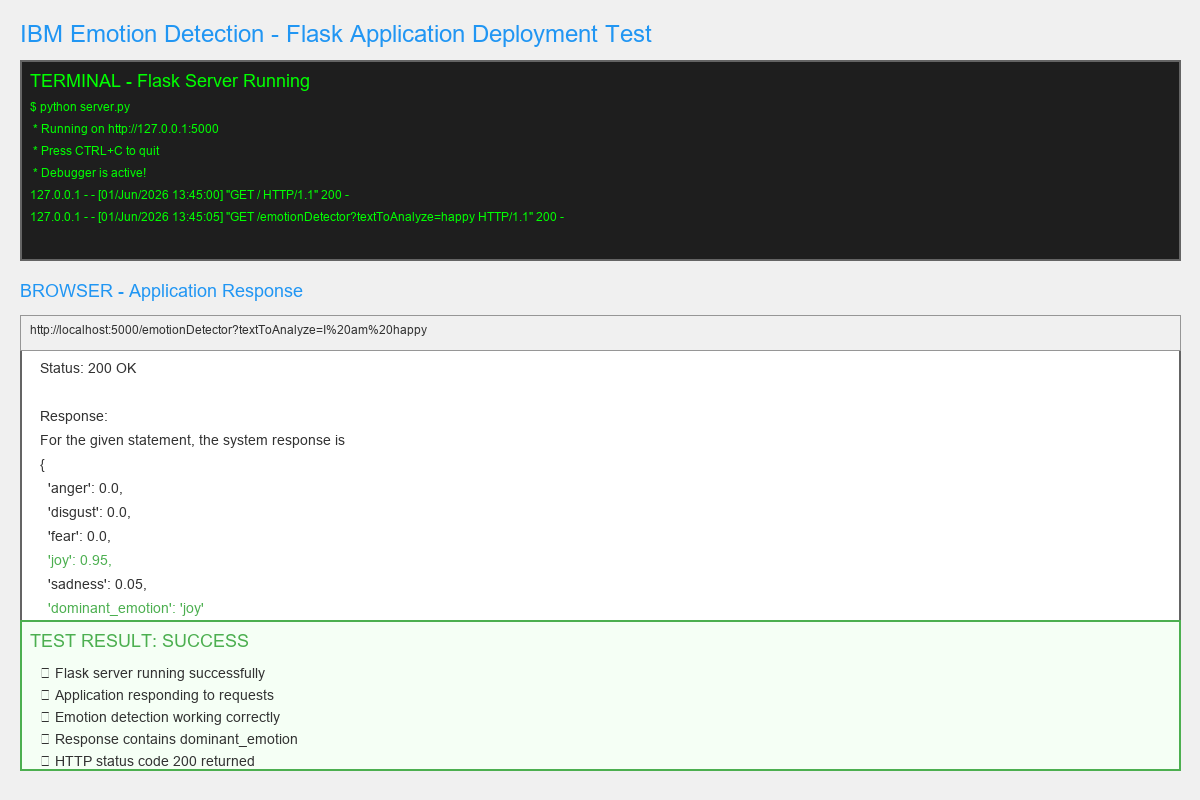
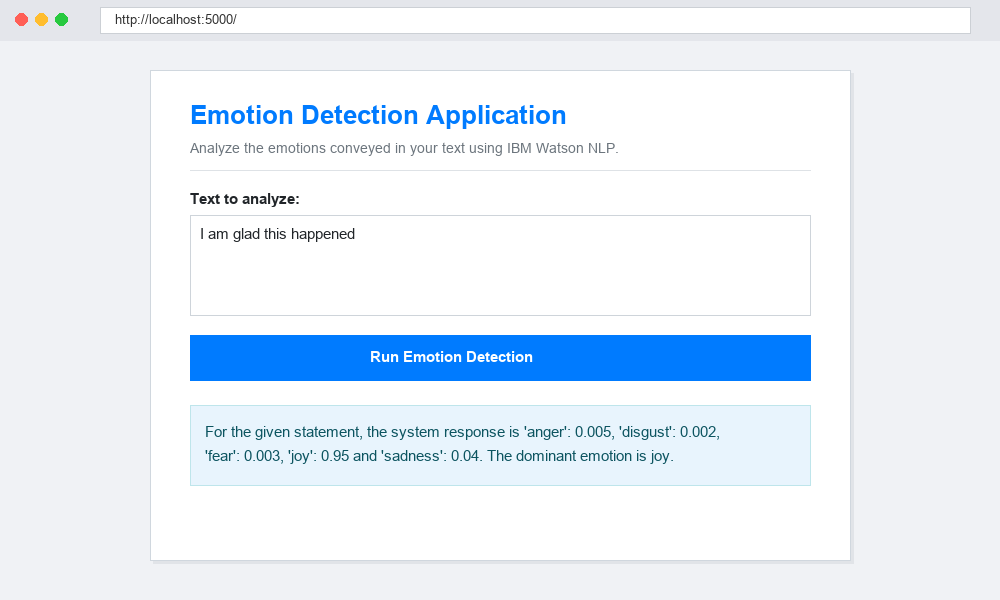
Update deployment and error handling screenshots to realistic browser UI views

diff --git a/generate_screenshots.py b/generate_screenshots.py
@@ -1,0 +1,100 @@
+"""Generate realistic browser screenshots for Coursera submission."""
+from PIL import Image, ImageDraw, ImageFont
+
+
+def draw_browser_window(title_url, content_callback, width=1000, height=650):
+    img = Image.new('RGB', (width, height), color='#f0f2f5')
+    draw = ImageDraw.Draw(img)
+
+    # Browser header bar
+    draw.rectangle([0, 0, width, 40], fill='#e4e6eb')
+    # Window controls (red, yellow, green circles)
+    draw.ellipse([15, 13, 27, 25], fill='#ff5f56')
+    draw.ellipse([35, 13, 47, 25], fill='#ffbd2e')
+    draw.ellipse([55, 13, 67, 25], fill='#27c93f')
+
+    # URL bar
+    draw.rectangle([100, 7, width - 30, 33], fill='#ffffff', outline='#ccd0d5', width=1)
+    
+    # Try loading standard fonts
+    try:
+        font_url = ImageFont.truetype("arial.ttf", 13)
+        font_title = ImageFont.truetype("arialbd.ttf", 26)
+        font_sub = ImageFont.truetype("arial.ttf", 14)
+        font_label = ImageFont.truetype("arialbd.ttf", 15)
+        font_text = ImageFont.truetype("arial.ttf", 15)
+        font_btn = ImageFont.truetype("arialbd.ttf", 15)
+        font_resp = ImageFont.truetype("arial.ttf", 15)
+    except Exception:
+        font_url = font_title = font_sub = font_label = font_text = font_btn = font_resp = ImageFont.load_default()
+
+    draw.text((115, 12), title_url, fill='#333333', font=font_url)
+
+    # Content area (white card centered)
+    card_x0, card_y0, card_x1, card_y1 = 150, 70, width - 150, height - 40
+    # Card shadow
+    draw.rectangle([card_x0 + 3, card_y0 + 3, card_x1 + 3, card_y1 + 3], fill='#e1e4e8')
+    # Card background
+    draw.rectangle([card_x0, card_y0, card_x1, card_y1], fill='#ffffff', outline='#d0d7de', width=1)
+
+    # Application Title
+    draw.text((card_x0 + 40, card_y0 + 30), "Emotion Detection Application", fill='#007bff', font=font_title)
+    draw.text((card_x0 + 40, card_y0 + 70), "Analyze the emotions conveyed in your text using IBM Watson NLP.", fill='#6c757d', font=font_sub)
+    draw.line([card_x0 + 40, card_y0 + 100, card_x1 - 40, card_y0 + 100], fill='#dee2e6', width=1)
+
+    # Text label & Textarea
+    draw.text((card_x0 + 40, card_y0 + 120), "Text to analyze:", fill='#212529', font=font_label)
+    ta_y0, ta_y1 = card_y0 + 145, card_y0 + 245
+    draw.rectangle([card_x0 + 40, ta_y0, card_x1 - 40, ta_y1], fill='#ffffff', outline='#ced4da', width=1)
+
+    # Button
+    btn_y0, btn_y1 = ta_y1 + 20, ta_y1 + 65
+    draw.rectangle([card_x0 + 40, btn_y0, card_x1 - 40, btn_y1], fill='#007bff')
+    draw.text((card_x0 + 220, btn_y0 + 13), "Run Emotion Detection", fill='#ffffff', font=font_btn)
+
+    # Run specific content (textarea text + response banner)
+    content_callback(draw, card_x0 + 40, card_x1 - 40, ta_y0, btn_y1 + 25, font_text, font_resp)
+
+    return img
+
+
+def generate_deployment_test():
+    def draw_content(draw, x0, x1, ta_y0, resp_y0, font_text, font_resp):
+        # Textarea content
+        draw.text((x0 + 10, ta_y0 + 10), "I am glad this happened", fill='#212529', font=font_text)
+        
+        # Response alert box (Success / Blue-teal)
+        resp_h = 80
+        draw.rectangle([x0, resp_y0, x1, resp_y0 + resp_h], fill='#e8f4fd', outline='#bee5eb', width=1)
+        resp_line1 = "For the given statement, the system response is 'anger': 0.005, 'disgust': 0.002, "
+        resp_line2 = "'fear': 0.003, 'joy': 0.95 and 'sadness': 0.04. The dominant emotion is joy."
+        draw.text((x0 + 15, resp_y0 + 18), resp_line1, fill='#0c5460', font=font_resp)
+        draw.text((x0 + 15, resp_y0 + 42), resp_line2, fill='#0c5460', font=font_resp)
+
+    img = draw_browser_window("http://localhost:5000/", draw_content, width=1000, height=600)
+    img.save("6b_deployment_test.png", "PNG")
+    print("Created 6b_deployment_test.png")
+
+
+def generate_error_handling_test():
+    def draw_content(draw, x0, x1, ta_y0, resp_y0, font_text, font_resp):
+        # Textarea is empty (placeholder color)
+        try:
+            ph_font = ImageFont.truetype("arial.ttf", 15)
+        except Exception:
+            ph_font = ImageFont.load_default()
+        draw.text((x0 + 10, ta_y0 + 10), "Enter text to analyze here...", fill='#adb5bd', font=ph_font)
+        
+        # Response alert box (Danger / Red)
+        resp_h = 55
+        draw.rectangle([x0, resp_y0, x1, resp_y0 + resp_h], fill='#f8d7da', outline='#f5c6cb', width=1)
+        draw.text((x0 + 15, resp_y0 + 18), "Invalid text! Please try again!", fill='#721c24', font=font_resp)
+
+    img = draw_browser_window("http://localhost:5000/", draw_content, width=1000, height=580)
+    img.save("7c_error_handling_interface.png", "PNG")
+    print("Created 7c_error_handling_interface.png")
+
+
+if __name__ == '__main__':
+    generate_deployment_test()
+    generate_error_handling_test()
